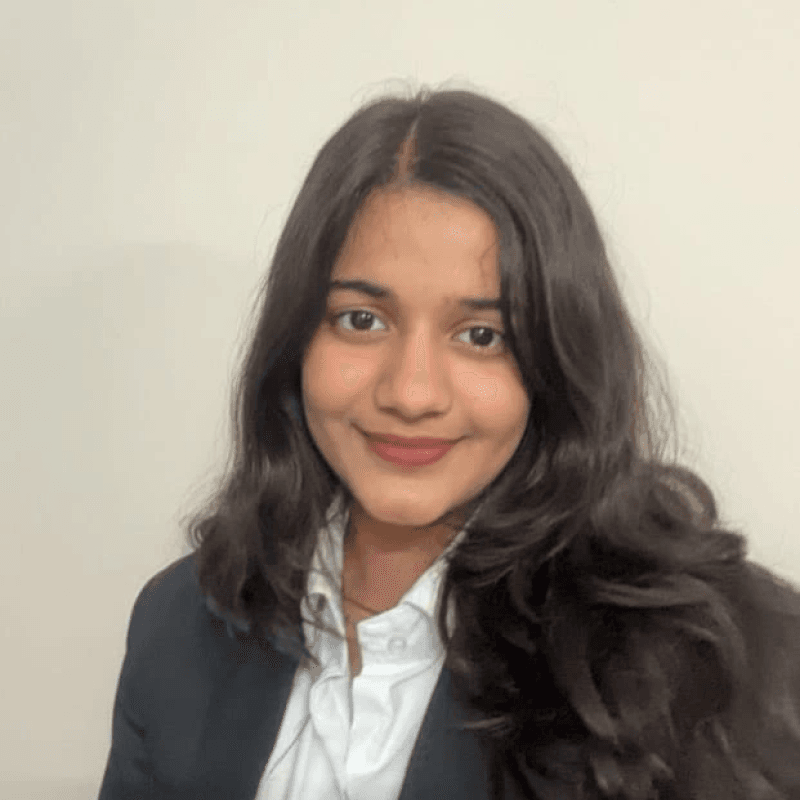
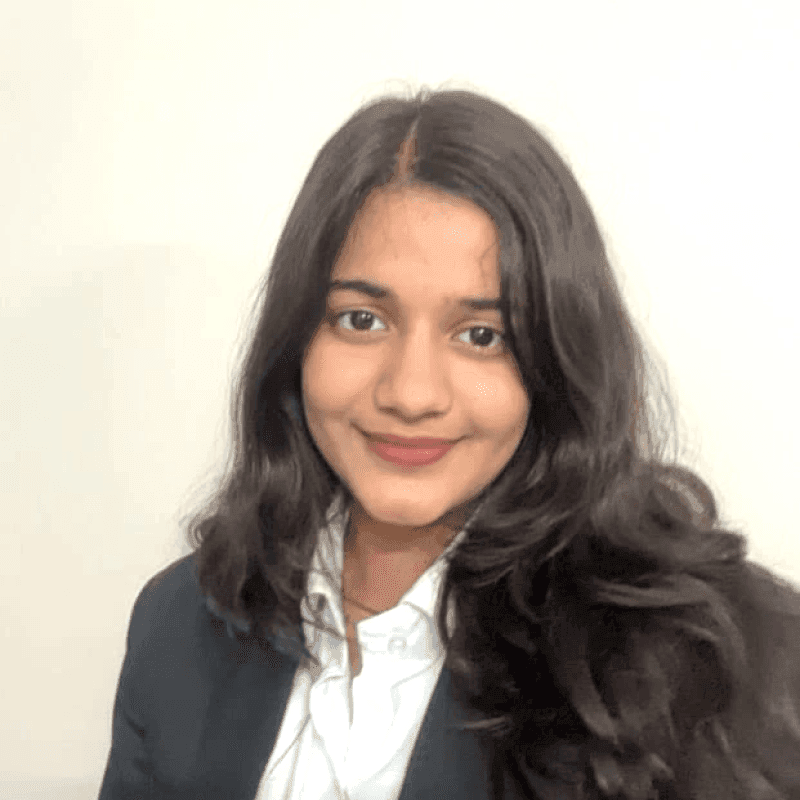
fix: increase profile photo brightness and visibility, add high-priority image preloading in head

diff --git a/components/Hero.jsx b/components/Hero.jsx
@@ -32,20 +32,23 @@ export default function Hero() {
     <section id="home" className="relative min-h-[92vh] flex items-center overflow-hidden pt-24 pb-16">
       {/* ── Background Portrait / Seamless Blend on Right ── */}
       <div className="absolute inset-0 z-0 pointer-events-none overflow-hidden">
-        {/* The portrait photo positioned on the right with improved brightness */}
-        <div className="absolute right-0 top-0 h-full w-full sm:w-[58%] lg:w-[52%] opacity-90">
+        {/* Subtle Cyan Backlight behind portrait for atmospheric illumination */}
+        <div className="absolute top-1/4 right-12 h-[380px] w-[380px] rounded-full bg-cyan-500/15 blur-[100px] pointer-events-none" />
+
+        {/* The portrait photo positioned on the right with enhanced brightness & visibility */}
+        <div className="absolute right-0 top-0 h-full w-full sm:w-[58%] lg:w-[52%] opacity-98">
           <Image
             src="/vaishnavi.png"
             alt="Vaishnavi Ojha – Full-Stack Developer"
             fill
             priority
-            className="object-cover object-top filter brightness-105 contrast-105"
+            className="object-cover object-top filter brightness-115 contrast-105"
             sizes="(max-width: 768px) 100vw, 52vw"
           />
           {/* Seamless gradient fade overlays blending into dark background */}
-          <div className="absolute inset-0 bg-gradient-to-r from-[#030712] via-[#030712]/80 to-transparent" />
+          <div className="absolute inset-0 bg-gradient-to-r from-[#030712] via-[#030712]/45 to-transparent" />
           <div className="absolute inset-0 bg-gradient-to-t from-[#030712] via-transparent to-transparent" />
-          <div className="absolute inset-0 bg-gradient-to-l from-cyan-950/20 to-transparent" />
+          <div className="absolute inset-0 bg-gradient-to-l from-cyan-950/15 to-transparent" />
         </div>
         {/* Solid dark panel on left for text readability */}
         <div className="absolute inset-y-0 left-0 w-full sm:w-1/2 bg-[#030712]/90 sm:bg-[#030712]" />

diff --git a/app/layout.js b/app/layout.js
@@ -40,6 +40,9 @@ export const metadata = {
 export default function RootLayout({ children }) {
   return (
     <html lang="en" className={`dark scroll-smooth ${inter.variable} ${jetbrainsMono.variable}`}>
+      <head>
+        <link rel="preload" href="/vaishnavi.png" as="image" fetchPriority="high" />
+      </head>
       <body className="bg-[#030712] text-[#F8FAFC] antialiased selection:bg-cyan-500/30 selection:text-cyan-200">
         {children}
       </body>
